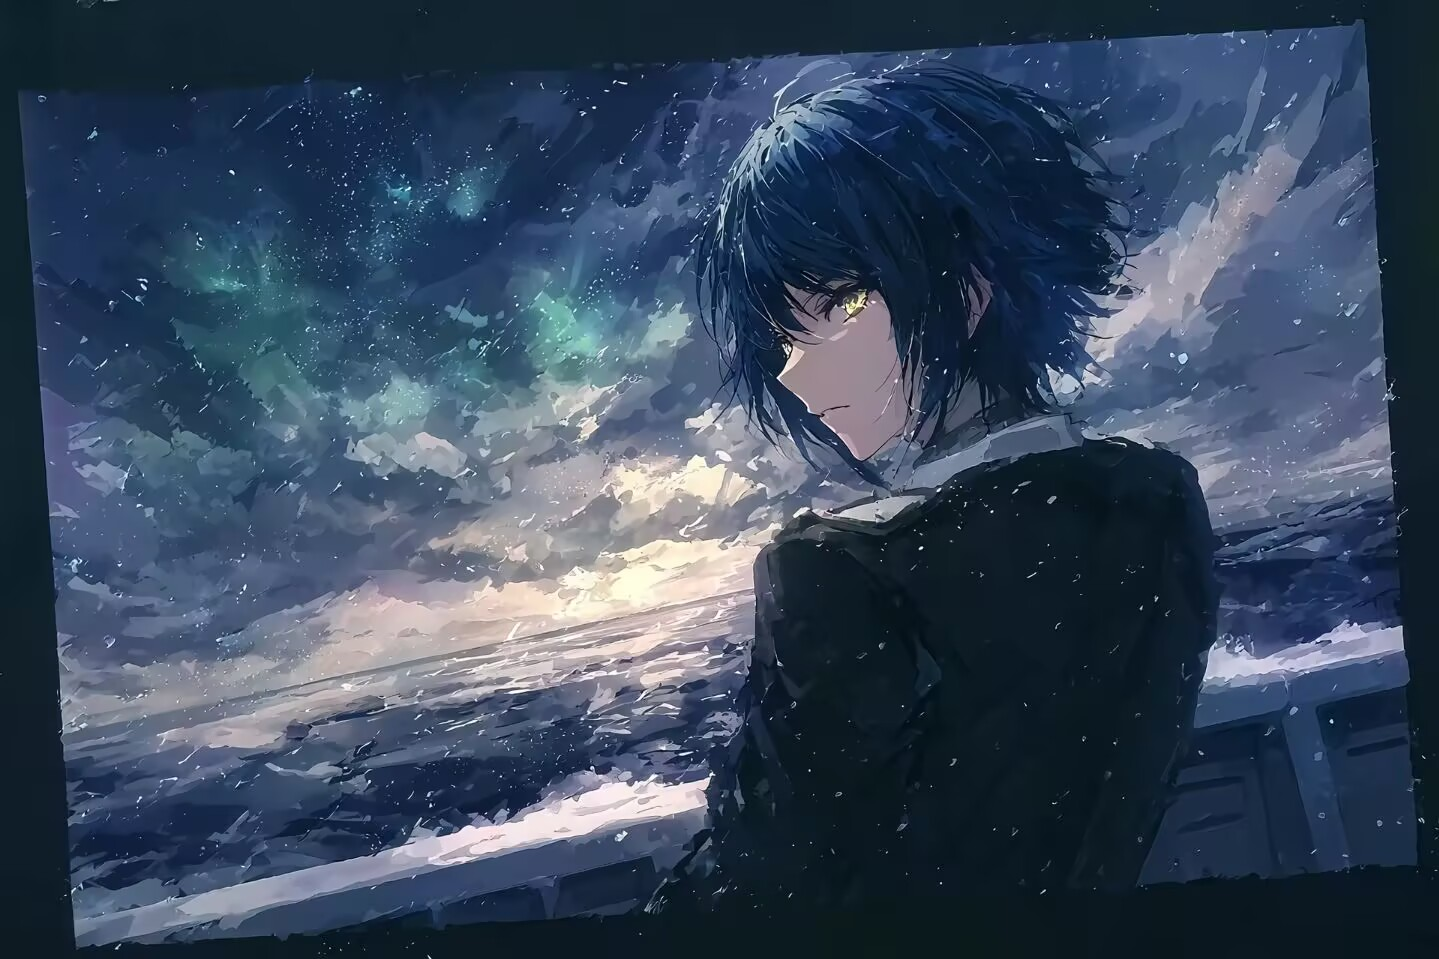
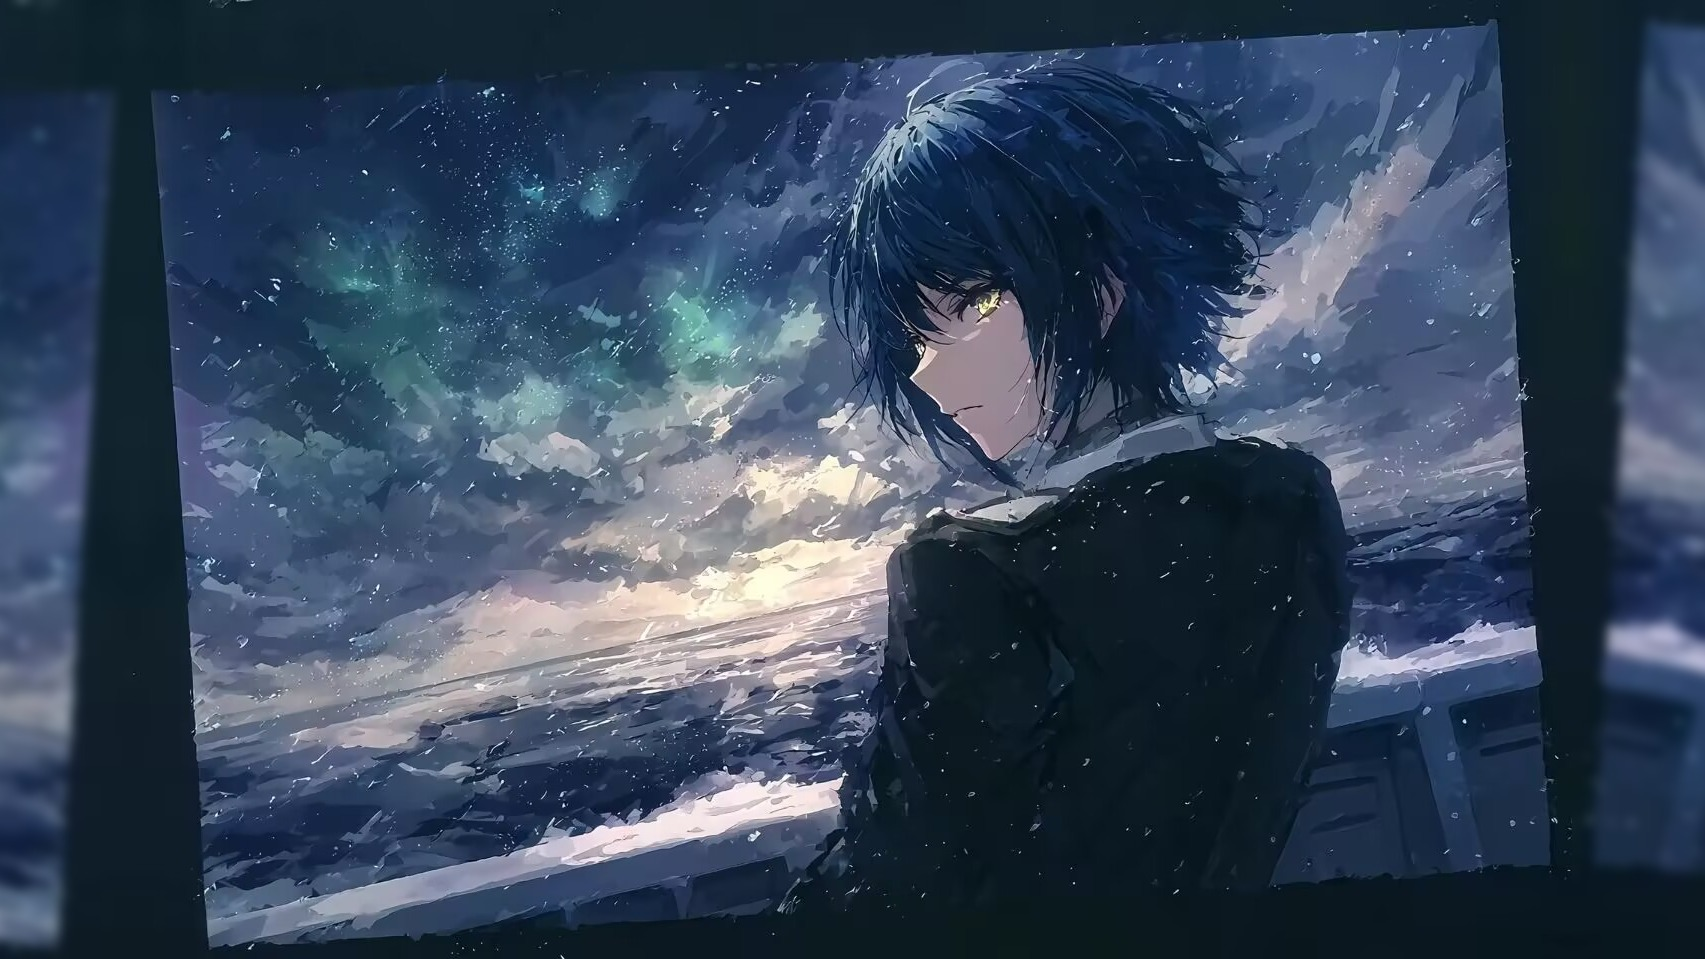
Site updated: 2026-09-27 19:50:22

diff --git a/archives/2026/07/index.html b/archives/2026/07/index.html
@@ -158,4 +158,4 @@
         </li>
       
     </ul>
-  </div><div class="card-widget card-webinfo"><div class="item-headline"><i class="fas fa-chart-line"></i><span>网站信息</span></div><div class="webinfo"><div class="webinfo-item"><div class="item-name">文章数目 :</div><div class="item-count">1</div></div><div class="webinfo-item"><div class="item-name">本站访客数 :</div><div class="item-count" id="busuanzi_value_site_uv"><i class="fa-solid fa-spinner fa-spin"></i></div></div><div class="webinfo-item"><div class="item-name">本站总浏览量 :</div><div class="item-count" id="busuanzi_value_site_pv"><i class="fa-solid fa-spinner fa-spin"></i></div></div><div class="webinfo-item"><div class="item-name">最后更新时间 :</div><div class="item-count" id="last-push-date" data-lastPushDate="2026-09-27T04:19:29.334Z"><i class="fa-solid fa-spinner fa-spin"></i></div></div></div></div></div></div></main><footer id="footer"><div class="footer-other"><div class="footer-copyright"><span class="copyright">&copy;&nbsp;2025 - 2026 By F1yurai</span><span class="framework-info"><span>框架 </span><a target="_blank" rel="noopener" href="https://hexo.io">Hexo 7.3.0</a><span class="footer-separator">|</span><span>主题 </span><a target="_blank" rel="noopener" href="https://github.com/jerryc127/hexo-theme-butterfly">Butterfly 5.5.5</a></span></div></div></footer></div><div id="rightside"><div id="rightside-config-hide"><button id="darkmode" type="button" title="日间和夜间模式切换"><i class="fas fa-adjust"></i></button><button id="hide-aside-btn" type="button" title="单栏和双栏切换"><i class="fas fa-arrows-alt-h"></i></button></div><div id="rightside-config-show"><button id="rightside-config" type="button" title="设置"><i class="fas fa-cog fa-spin"></i></button><button id="go-up" type="button" title="回到顶部"><span class="scroll-percent"></span><i class="fas fa-arrow-up"></i></button></div></div><div><script src="/js/utils.js?v=5.5.5"></script><script src="/js/main.js?v=5.5.5"></script><script src="https://cdn.jsdelivr.net/npm/medium-zoom@1.1.0/dist/medium-zoom.min.js"></script><script src="https://cdn.jsdelivr.net/npm/vanilla-lazyload@19.1.3/dist/lazyload.iife.min.js"></script><div class="js-pjax"></div><script id="click-heart" src="https://cdn.jsdelivr.net/npm/butterfly-extsrc@1.1.6/dist/click-heart.min.js" async="async" mobile="false"></script><script async data-pjax src="//busuanzi.ibruce.info/busuanzi/2.3/busuanzi.pure.mini.js"></script></div><script src="/live2dw/lib/L2Dwidget.min.js?094cbace49a39548bed64abff5988b05"></script><script>L2Dwidget.init({"pluginRootPath":"live2dw/","pluginJsPath":"lib/","pluginModelPath":"assets/","tagMode":false,"debug":false,"model":{"jsonPath":"/live2dw/assets/roxy.model.json"},"display":{"position":"left","width":170,"height":320,"hOffset":12,"vOffset":-8},"mobile":{"show":false},"react":{"opacityDefault":0.95,"opacityOnHover":1},"log":false});</script></body></html>
+  </div><div class="card-widget card-webinfo"><div class="item-headline"><i class="fas fa-chart-line"></i><span>网站信息</span></div><div class="webinfo"><div class="webinfo-item"><div class="item-name">文章数目 :</div><div class="item-count">1</div></div><div class="webinfo-item"><div class="item-name">本站访客数 :</div><div class="item-count" id="busuanzi_value_site_uv"><i class="fa-solid fa-spinner fa-spin"></i></div></div><div class="webinfo-item"><div class="item-name">本站总浏览量 :</div><div class="item-count" id="busuanzi_value_site_pv"><i class="fa-solid fa-spinner fa-spin"></i></div></div><div class="webinfo-item"><div class="item-name">最后更新时间 :</div><div class="item-count" id="last-push-date" data-lastPushDate="2026-09-27T11:47:04.950Z"><i class="fa-solid fa-spinner fa-spin"></i></div></div></div></div></div></div></main><footer id="footer"><div class="footer-other"><div class="footer-copyright"><span class="copyright">&copy;&nbsp;2025 - 2026 By F1yurai</span><span class="framework-info"><span>框架 </span><a target="_blank" rel="noopener" href="https://hexo.io">Hexo 7.3.0</a><span class="footer-separator">|</span><span>主题 </span><a target="_blank" rel="noopener" href="https://github.com/jerryc127/hexo-theme-butterfly">Butterfly 5.5.5</a></span></div></div></footer></div><div id="rightside"><div id="rightside-config-hide"><button id="darkmode" type="button" title="日间和夜间模式切换"><i class="fas fa-adjust"></i></button><button id="hide-aside-btn" type="button" title="单栏和双栏切换"><i class="fas fa-arrows-alt-h"></i></button></div><div id="rightside-config-show"><button id="rightside-config" type="button" title="设置"><i class="fas fa-cog fa-spin"></i></button><button id="go-up" type="button" title="回到顶部"><span class="scroll-percent"></span><i class="fas fa-arrow-up"></i></button></div></div><div><script src="/js/utils.js?v=5.5.5"></script><script src="/js/main.js?v=5.5.5"></script><script src="https://cdn.jsdelivr.net/npm/medium-zoom@1.1.0/dist/medium-zoom.min.js"></script><script src="https://cdn.jsdelivr.net/npm/vanilla-lazyload@19.1.3/dist/lazyload.iife.min.js"></script><div class="js-pjax"></div><script id="click-heart" src="https://cdn.jsdelivr.net/npm/butterfly-extsrc@1.1.6/dist/click-heart.min.js" async="async" mobile="false"></script><script async data-pjax src="//busuanzi.ibruce.info/busuanzi/2.3/busuanzi.pure.mini.js"></script></div><script src="/live2dw/lib/L2Dwidget.min.js?094cbace49a39548bed64abff5988b05"></script><script>L2Dwidget.init({"pluginRootPath":"live2dw/","pluginJsPath":"lib/","pluginModelPath":"assets/","tagMode":false,"debug":false,"model":{"jsonPath":"/live2dw/assets/roxy.model.json"},"display":{"position":"left","width":170,"height":320,"hOffset":12,"vOffset":-8},"mobile":{"show":false},"react":{"opacityDefault":0.95,"opacityOnHover":1},"log":false});</script></body></html>

diff --git a/archives/2026/index.html b/archives/2026/index.html
@@ -158,4 +158,4 @@
         </li>
       
     </ul>
-  </div><div class="card-widget card-webinfo"><div class="item-headline"><i class="fas fa-chart-line"></i><span>网站信息</span></div><div class="webinfo"><div class="webinfo-item"><div class="item-name">文章数目 :</div><div class="item-count">1</div></div><div class="webinfo-item"><div class="item-name">本站访客数 :</div><div class="item-count" id="busuanzi_value_site_uv"><i class="fa-solid fa-spinner fa-spin"></i></div></div><div class="webinfo-item"><div class="item-name">本站总浏览量 :</div><div class="item-count" id="busuanzi_value_site_pv"><i class="fa-solid fa-spinner fa-spin"></i></div></div><div class="webinfo-item"><div class="item-name">最后更新时间 :</div><div class="item-count" id="last-push-date" data-lastPushDate="2026-09-27T04:19:29.334Z"><i class="fa-solid fa-spinner fa-spin"></i></div></div></div></div></div></div></main><footer id="footer"><div class="footer-other"><div class="footer-copyright"><span class="copyright">&copy;&nbsp;2025 - 2026 By F1yurai</span><span class="framework-info"><span>框架 </span><a target="_blank" rel="noopener" href="https://hexo.io">Hexo 7.3.0</a><span class="footer-separator">|</span><span>主题 </span><a target="_blank" rel="noopener" href="https://github.com/jerryc127/hexo-theme-butterfly">Butterfly 5.5.5</a></span></div></div></footer></div><div id="rightside"><div id="rightside-config-hide"><button id="darkmode" type="button" title="日间和夜间模式切换"><i class="fas fa-adjust"></i></button><button id="hide-aside-btn" type="button" title="单栏和双栏切换"><i class="fas fa-arrows-alt-h"></i></button></div><div id="rightside-config-show"><button id="rightside-config" type="button" title="设置"><i class="fas fa-cog fa-spin"></i></button><button id="go-up" type="button" title="回到顶部"><span class="scroll-percent"></span><i class="fas fa-arrow-up"></i></button></div></div><div><script src="/js/utils.js?v=5.5.5"></script><script src="/js/main.js?v=5.5.5"></script><script src="https://cdn.jsdelivr.net/npm/medium-zoom@1.1.0/dist/medium-zoom.min.js"></script><script src="https://cdn.jsdelivr.net/npm/vanilla-lazyload@19.1.3/dist/lazyload.iife.min.js"></script><div class="js-pjax"></div><script id="click-heart" src="https://cdn.jsdelivr.net/npm/butterfly-extsrc@1.1.6/dist/click-heart.min.js" async="async" mobile="false"></script><script async data-pjax src="//busuanzi.ibruce.info/busuanzi/2.3/busuanzi.pure.mini.js"></script></div><script src="/live2dw/lib/L2Dwidget.min.js?094cbace49a39548bed64abff5988b05"></script><script>L2Dwidget.init({"pluginRootPath":"live2dw/","pluginJsPath":"lib/","pluginModelPath":"assets/","tagMode":false,"debug":false,"model":{"jsonPath":"/live2dw/assets/roxy.model.json"},"display":{"position":"left","width":170,"height":320,"hOffset":12,"vOffset":-8},"mobile":{"show":false},"react":{"opacityDefault":0.95,"opacityOnHover":1},"log":false});</script></body></html>
+  </div><div class="card-widget card-webinfo"><div class="item-headline"><i class="fas fa-chart-line"></i><span>网站信息</span></div><div class="webinfo"><div class="webinfo-item"><div class="item-name">文章数目 :</div><div class="item-count">1</div></div><div class="webinfo-item"><div class="item-name">本站访客数 :</div><div class="item-count" id="busuanzi_value_site_uv"><i class="fa-solid fa-spinner fa-spin"></i></div></div><div class="webinfo-item"><div class="item-name">本站总浏览量 :</div><div class="item-count" id="busuanzi_value_site_pv"><i class="fa-solid fa-spinner fa-spin"></i></div></div><div class="webinfo-item"><div class="item-name">最后更新时间 :</div><div class="item-count" id="last-push-date" data-lastPushDate="2026-09-27T11:47:04.950Z"><i class="fa-solid fa-spinner fa-spin"></i></div></div></div></div></div></div></main><footer id="footer"><div class="footer-other"><div class="footer-copyright"><span class="copyright">&copy;&nbsp;2025 - 2026 By F1yurai</span><span class="framework-info"><span>框架 </span><a target="_blank" rel="noopener" href="https://hexo.io">Hexo 7.3.0</a><span class="footer-separator">|</span><span>主题 </span><a target="_blank" rel="noopener" href="https://github.com/jerryc127/hexo-theme-butterfly">Butterfly 5.5.5</a></span></div></div></footer></div><div id="rightside"><div id="rightside-config-hide"><button id="darkmode" type="button" title="日间和夜间模式切换"><i class="fas fa-adjust"></i></button><button id="hide-aside-btn" type="button" title="单栏和双栏切换"><i class="fas fa-arrows-alt-h"></i></button></div><div id="rightside-config-show"><button id="rightside-config" type="button" title="设置"><i class="fas fa-cog fa-spin"></i></button><button id="go-up" type="button" title="回到顶部"><span class="scroll-percent"></span><i class="fas fa-arrow-up"></i></button></div></div><div><script src="/js/utils.js?v=5.5.5"></script><script src="/js/main.js?v=5.5.5"></script><script src="https://cdn.jsdelivr.net/npm/medium-zoom@1.1.0/dist/medium-zoom.min.js"></script><script src="https://cdn.jsdelivr.net/npm/vanilla-lazyload@19.1.3/dist/lazyload.iife.min.js"></script><div class="js-pjax"></div><script id="click-heart" src="https://cdn.jsdelivr.net/npm/butterfly-extsrc@1.1.6/dist/click-heart.min.js" async="async" mobile="false"></script><script async data-pjax src="//busuanzi.ibruce.info/busuanzi/2.3/busuanzi.pure.mini.js"></script></div><script src="/live2dw/lib/L2Dwidget.min.js?094cbace49a39548bed64abff5988b05"></script><script>L2Dwidget.init({"pluginRootPath":"live2dw/","pluginJsPath":"lib/","pluginModelPath":"assets/","tagMode":false,"debug":false,"model":{"jsonPath":"/live2dw/assets/roxy.model.json"},"display":{"position":"left","width":170,"height":320,"hOffset":12,"vOffset":-8},"mobile":{"show":false},"react":{"opacityDefault":0.95,"opacityOnHover":1},"log":false});</script></body></html>

diff --git a/archives/index.html b/archives/index.html
@@ -158,4 +158,4 @@
         </li>
       
     </ul>
-  </div><div class="card-widget card-webinfo"><div class="item-headline"><i class="fas fa-chart-line"></i><span>网站信息</span></div><div class="webinfo"><div class="webinfo-item"><div class="item-name">文章数目 :</div><div class="item-count">1</div></div><div class="webinfo-item"><div class="item-name">本站访客数 :</div><div class="item-count" id="busuanzi_value_site_uv"><i class="fa-solid fa-spinner fa-spin"></i></div></div><div class="webinfo-item"><div class="item-name">本站总浏览量 :</div><div class="item-count" id="busuanzi_value_site_pv"><i class="fa-solid fa-spinner fa-spin"></i></div></div><div class="webinfo-item"><div class="item-name">最后更新时间 :</div><div class="item-count" id="last-push-date" data-lastPushDate="2026-09-27T04:19:29.334Z"><i class="fa-solid fa-spinner fa-spin"></i></div></div></div></div></div></div></main><footer id="footer"><div class="footer-other"><div class="footer-copyright"><span class="copyright">&copy;&nbsp;2025 - 2026 By F1yurai</span><span class="framework-info"><span>框架 </span><a target="_blank" rel="noopener" href="https://hexo.io">Hexo 7.3.0</a><span class="footer-separator">|</span><span>主题 </span><a target="_blank" rel="noopener" href="https://github.com/jerryc127/hexo-theme-butterfly">Butterfly 5.5.5</a></span></div></div></footer></div><div id="rightside"><div id="rightside-config-hide"><button id="darkmode" type="button" title="日间和夜间模式切换"><i class="fas fa-adjust"></i></button><button id="hide-aside-btn" type="button" title="单栏和双栏切换"><i class="fas fa-arrows-alt-h"></i></button></div><div id="rightside-config-show"><button id="rightside-config" type="button" title="设置"><i class="fas fa-cog fa-spin"></i></button><button id="go-up" type="button" title="回到顶部"><span class="scroll-percent"></span><i class="fas fa-arrow-up"></i></button></div></div><div><script src="/js/utils.js?v=5.5.5"></script><script src="/js/main.js?v=5.5.5"></script><script src="https://cdn.jsdelivr.net/npm/medium-zoom@1.1.0/dist/medium-zoom.min.js"></script><script src="https://cdn.jsdelivr.net/npm/vanilla-lazyload@19.1.3/dist/lazyload.iife.min.js"></script><div class="js-pjax"></div><script id="click-heart" src="https://cdn.jsdelivr.net/npm/butterfly-extsrc@1.1.6/dist/click-heart.min.js" async="async" mobile="false"></script><script async data-pjax src="//busuanzi.ibruce.info/busuanzi/2.3/busuanzi.pure.mini.js"></script></div><script src="/live2dw/lib/L2Dwidget.min.js?094cbace49a39548bed64abff5988b05"></script><script>L2Dwidget.init({"pluginRootPath":"live2dw/","pluginJsPath":"lib/","pluginModelPath":"assets/","tagMode":false,"debug":false,"model":{"jsonPath":"/live2dw/assets/roxy.model.json"},"display":{"position":"left","width":170,"height":320,"hOffset":12,"vOffset":-8},"mobile":{"show":false},"react":{"opacityDefault":0.95,"opacityOnHover":1},"log":false});</script></body></html>
+  </div><div class="card-widget card-webinfo"><div class="item-headline"><i class="fas fa-chart-line"></i><span>网站信息</span></div><div class="webinfo"><div class="webinfo-item"><div class="item-name">文章数目 :</div><div class="item-count">1</div></div><div class="webinfo-item"><div class="item-name">本站访客数 :</div><div class="item-count" id="busuanzi_value_site_uv"><i class="fa-solid fa-spinner fa-spin"></i></div></div><div class="webinfo-item"><div class="item-name">本站总浏览量 :</div><div class="item-count" id="busuanzi_value_site_pv"><i class="fa-solid fa-spinner fa-spin"></i></div></div><div class="webinfo-item"><div class="item-name">最后更新时间 :</div><div class="item-count" id="last-push-date" data-lastPushDate="2026-09-27T11:47:04.950Z"><i class="fa-solid fa-spinner fa-spin"></i></div></div></div></div></div></div></main><footer id="footer"><div class="footer-other"><div class="footer-copyright"><span class="copyright">&copy;&nbsp;2025 - 2026 By F1yurai</span><span class="framework-info"><span>框架 </span><a target="_blank" rel="noopener" href="https://hexo.io">Hexo 7.3.0</a><span class="footer-separator">|</span><span>主题 </span><a target="_blank" rel="noopener" href="https://github.com/jerryc127/hexo-theme-butterfly">Butterfly 5.5.5</a></span></div></div></footer></div><div id="rightside"><div id="rightside-config-hide"><button id="darkmode" type="button" title="日间和夜间模式切换"><i class="fas fa-adjust"></i></button><button id="hide-aside-btn" type="button" title="单栏和双栏切换"><i class="fas fa-arrows-alt-h"></i></button></div><div id="rightside-config-show"><button id="rightside-config" type="button" title="设置"><i class="fas fa-cog fa-spin"></i></button><button id="go-up" type="button" title="回到顶部"><span class="scroll-percent"></span><i class="fas fa-arrow-up"></i></button></div></div><div><script src="/js/utils.js?v=5.5.5"></script><script src="/js/main.js?v=5.5.5"></script><script src="https://cdn.jsdelivr.net/npm/medium-zoom@1.1.0/dist/medium-zoom.min.js"></script><script src="https://cdn.jsdelivr.net/npm/vanilla-lazyload@19.1.3/dist/lazyload.iife.min.js"></script><div class="js-pjax"></div><script id="click-heart" src="https://cdn.jsdelivr.net/npm/butterfly-extsrc@1.1.6/dist/click-heart.min.js" async="async" mobile="false"></script><script async data-pjax src="//busuanzi.ibruce.info/busuanzi/2.3/busuanzi.pure.mini.js"></script></div><script src="/live2dw/lib/L2Dwidget.min.js?094cbace49a39548bed64abff5988b05"></script><script>L2Dwidget.init({"pluginRootPath":"live2dw/","pluginJsPath":"lib/","pluginModelPath":"assets/","tagMode":false,"debug":false,"model":{"jsonPath":"/live2dw/assets/roxy.model.json"},"display":{"position":"left","width":170,"height":320,"hOffset":12,"vOffset":-8},"mobile":{"show":false},"react":{"opacityDefault":0.95,"opacityOnHover":1},"log":false});</script></body></html>

diff --git a/index.html b/index.html
@@ -166,7 +166,7 @@
         </li>
       
     </ul>
-  </div><div class="card-widget card-webinfo"><div class="item-headline"><i class="fas fa-chart-line"></i><span>网站信息</span></div><div class="webinfo"><div class="webinfo-item"><div class="item-name">文章数目 :</div><div class="item-count">1</div></div><div class="webinfo-item"><div class="item-name">本站访客数 :</div><div class="item-count" id="busuanzi_value_site_uv"><i class="fa-solid fa-spinner fa-spin"></i></div></div><div class="webinfo-item"><div class="item-name">本站总浏览量 :</div><div class="item-count" id="busuanzi_value_site_pv"><i class="fa-solid fa-spinner fa-spin"></i></div></div><div class="webinfo-item"><div class="item-name">最后更新时间 :</div><div class="item-count" id="last-push-date" data-lastPushDate="2026-09-27T04:19:29.334Z"><i class="fa-solid fa-spinner fa-spin"></i></div></div></div></div></div></div></main><footer id="footer"><div class="footer-other"><div class="footer-copyright"><span class="copyright">&copy;&nbsp;2025 - 2026 By F1yurai</span><span class="framework-info"><span>框架 </span><a target="_blank" rel="noopener" href="https://hexo.io">Hexo 7.3.0</a><span class="footer-separator">|</span><span>主题 </span><a target="_blank" rel="noopener" href="https://github.com/jerryc127/hexo-theme-butterfly">Butterfly 5.5.5</a></span></div></div></footer></div><div id="rightside"><div id="rightside-config-hide"><button id="darkmode" type="button" title="日间和夜间模式切换"><i class="fas fa-adjust"></i></button><button id="hide-aside-btn" type="button" title="单栏和双栏切换"><i class="fas fa-arrows-alt-h"></i></button></div><div id="rightside-config-show"><button id="rightside-config" type="button" title="设置"><i class="fas fa-cog fa-spin"></i></button><button id="go-up" type="button" title="回到顶部"><span class="scroll-percent"></span><i class="fas fa-arrow-up"></i></button></div></div><div><script src="/js/utils.js?v=5.5.5"></script><script src="/js/main.js?v=5.5.5"></script><script src="https://cdn.jsdelivr.net/npm/medium-zoom@1.1.0/dist/medium-zoom.min.js"></script><script src="https://cdn.jsdelivr.net/npm/vanilla-lazyload@19.1.3/dist/lazyload.iife.min.js"></script><div class="js-pjax"><script>window.typedJSFn = {
+  </div><div class="card-widget card-webinfo"><div class="item-headline"><i class="fas fa-chart-line"></i><span>网站信息</span></div><div class="webinfo"><div class="webinfo-item"><div class="item-name">文章数目 :</div><div class="item-count">1</div></div><div class="webinfo-item"><div class="item-name">本站访客数 :</div><div class="item-count" id="busuanzi_value_site_uv"><i class="fa-solid fa-spinner fa-spin"></i></div></div><div class="webinfo-item"><div class="item-name">本站总浏览量 :</div><div class="item-count" id="busuanzi_value_site_pv"><i class="fa-solid fa-spinner fa-spin"></i></div></div><div class="webinfo-item"><div class="item-name">最后更新时间 :</div><div class="item-count" id="last-push-date" data-lastPushDate="2026-09-27T11:47:04.950Z"><i class="fa-solid fa-spinner fa-spin"></i></div></div></div></div></div></div></main><footer id="footer"><div class="footer-other"><div class="footer-copyright"><span class="copyright">&copy;&nbsp;2025 - 2026 By F1yurai</span><span class="framework-info"><span>框架 </span><a target="_blank" rel="noopener" href="https://hexo.io">Hexo 7.3.0</a><span class="footer-separator">|</span><span>主题 </span><a target="_blank" rel="noopener" href="https://github.com/jerryc127/hexo-theme-butterfly">Butterfly 5.5.5</a></span></div></div></footer></div><div id="rightside"><div id="rightside-config-hide"><button id="darkmode" type="button" title="日间和夜间模式切换"><i class="fas fa-adjust"></i></button><button id="hide-aside-btn" type="button" title="单栏和双栏切换"><i class="fas fa-arrows-alt-h"></i></button></div><div id="rightside-config-show"><button id="rightside-config" type="button" title="设置"><i class="fas fa-cog fa-spin"></i></button><button id="go-up" type="button" title="回到顶部"><span class="scroll-percent"></span><i class="fas fa-arrow-up"></i></button></div></div><div><script src="/js/utils.js?v=5.5.5"></script><script src="/js/main.js?v=5.5.5"></script><script src="https://cdn.jsdelivr.net/npm/medium-zoom@1.1.0/dist/medium-zoom.min.js"></script><script src="https://cdn.jsdelivr.net/npm/vanilla-lazyload@19.1.3/dist/lazyload.iife.min.js"></script><div class="js-pjax"><script>window.typedJSFn = {
   init: str => {
     window.typed = new Typed('#subtitle', Object.assign({
       strings: str,

diff --git a/css/cold-blue.css b/css/cold-blue.css
@@ -12,11 +12,11 @@
 }
 
 #web_bg {
-  background-image: url('/image/bg.jpg'), url('/image/bg-blur.jpg') !important;
-  background-position: center center, center center !important;
-  background-repeat: no-repeat, no-repeat !important;
-  background-size: contain, cover !important;
-  background-attachment: fixed, fixed !important;
+  background-image: url('/image/bg.jpg') !important;
+  background-position: center center !important;
+  background-repeat: no-repeat !important;
+  background-size: cover !important;
+  background-attachment: fixed !important;
   filter: saturate(1.05) brightness(0.98) contrast(1.04);
 }
 
@@ -24,10 +24,7 @@
   content: '';
   position: fixed;
   inset: 0;
-  background:
-    radial-gradient(circle at 18% 22%, rgba(103, 164, 255, 0.12), transparent 32%),
-    radial-gradient(circle at 82% 18%, rgba(145, 214, 255, 0.08), transparent 28%),
-    linear-gradient(135deg, rgba(4, 10, 18, 0.1), rgba(4, 10, 18, 0.26));
+  background: linear-gradient(180deg, rgba(4, 10, 18, 0.06), rgba(4, 10, 18, 0.22));
   pointer-events: none;
 }
 
